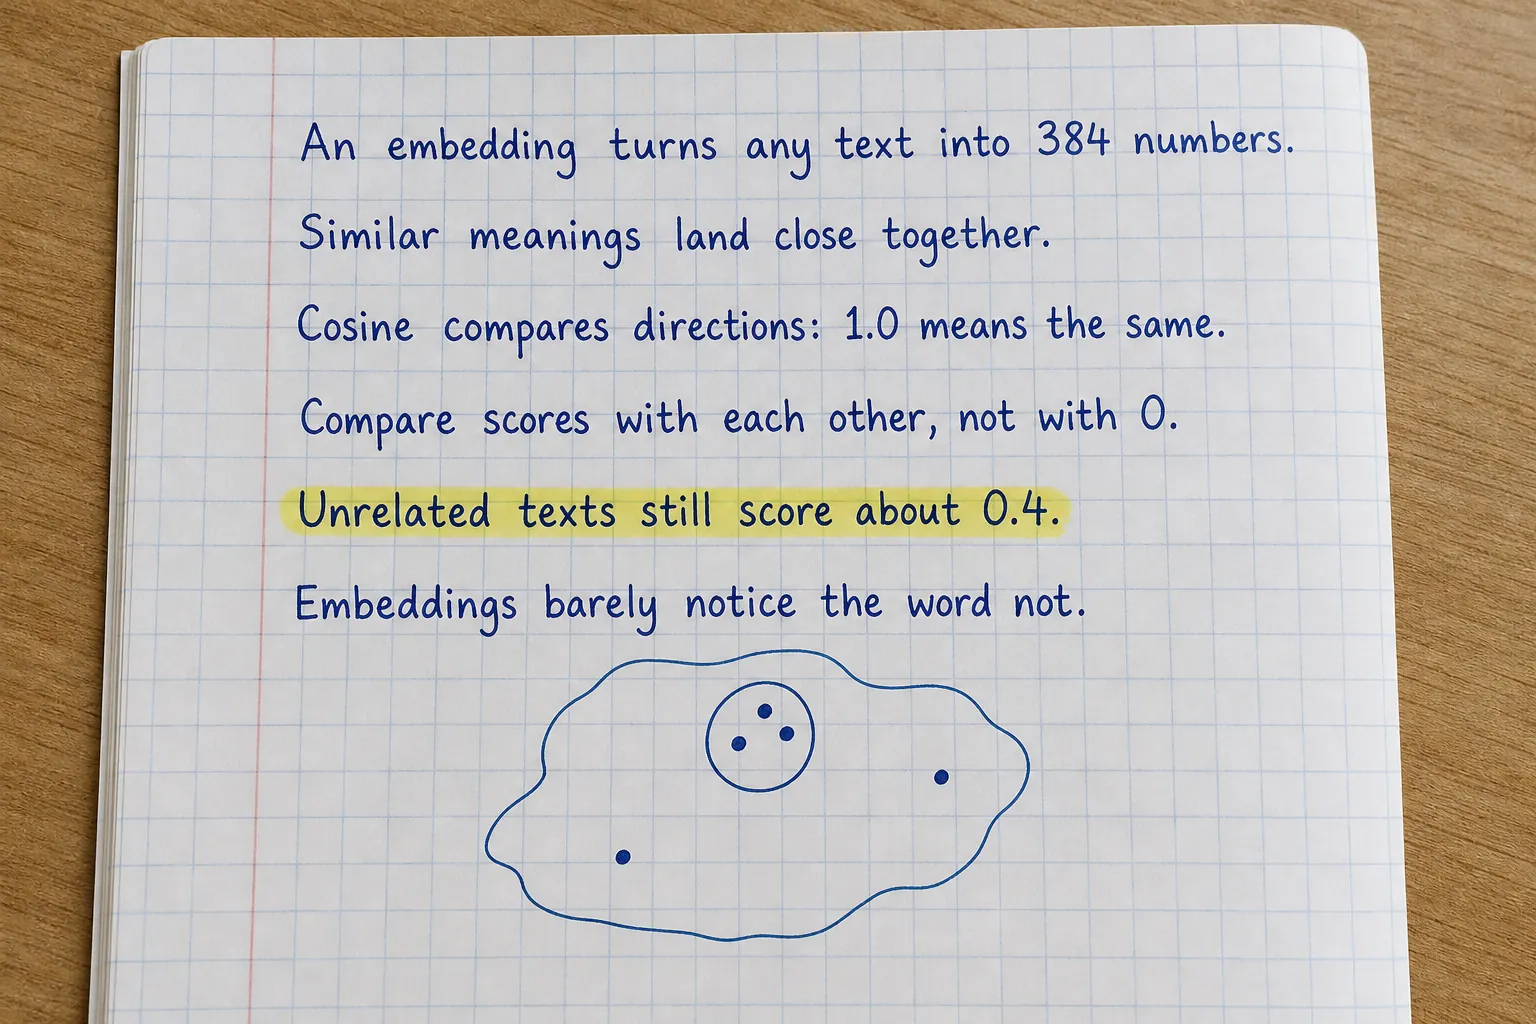
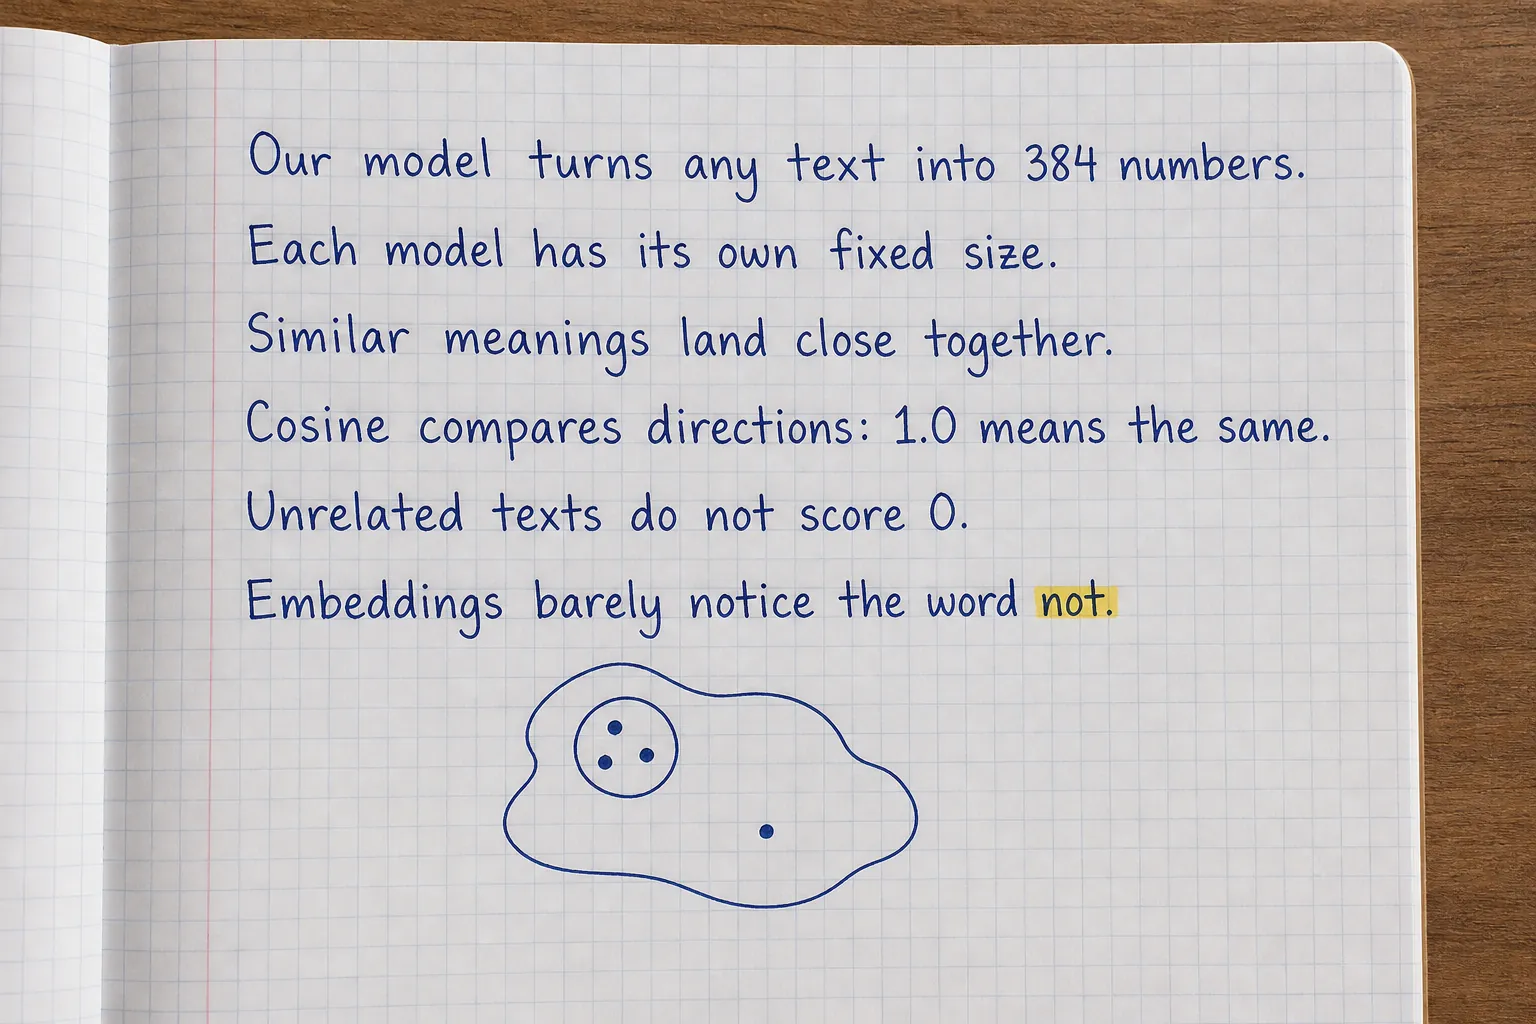
RAG chapter 2: 384 is bge-small's size, not every embedding's; notes page redrawn

diff --git a/labs/rag-vector-databases/chapters/02-embeddings.md b/labs/rag-vector-databases/chapters/02-embeddings.md
@@ -38,7 +38,7 @@ whole paragraph. The picture below shows it with three real sentences from the s
 the model, and a row of 384 numbers comes out (only the first 4 are shown).
 
 :::diagram{name="rag-embed"}
-Text in, 384 numbers out. The numbers are the model's real output, and so are the two scores at the bottom.
+The bge-small model: text in, 384 numbers out. The numbers are its real output, and so are the two scores at the bottom.
 :::
 
 **What are the 384 numbers?** Each one is a measurement the model makes of the text. Together, the 384 measurements
@@ -47,7 +47,8 @@ it was trained, and none of them lines up with a word you could name. There is n
 number; the meaning is spread across all 384 together. So you never read an embedding one number at a time. You only
 **compare** whole embeddings with each other.
 
-**Why exactly 384?** Because the people who built this model chose that size when they designed it. Every text it reads
+**Why exactly 384?** Because the people who built **this** model chose that size when they designed it. 384 belongs to
+bge-small, not to embeddings in general: every embedding model has a fixed size, but each model has its own. Every text it reads
 comes out as exactly 384 numbers, never more and never fewer, and that cannot be changed after the model is trained.
 The number of values in a vector is called its **dimension**, so you will often read that bge-small makes
 "384-dimensional embeddings". Other models chose other sizes:
@@ -79,7 +80,7 @@ meaning, you will:
 2. turn the ranger's question into a vector, the same way;
 3. find the sections whose vectors are closest to the question's vector.
 
-Because a vector is a list of 384 numbers, you can also think of it as a **point**: two numbers mark a point on a sheet of
+Because each of our vectors is a list of 384 numbers, you can also think of it as a **point**: two numbers mark a point on a sheet of
 graph paper, and 384 numbers mark a point in a space with 384 directions. "Closest vectors" and "nearest points" mean
 the same thing, and later chapters use both.
 
@@ -402,7 +403,8 @@ and "The road is not safe after dark." score 0.941.)
 :::step{type=recap}
 You can now:
 
-- explain what an embedding is: a fixed list of 384 numbers for a text, where similar meanings give similar vectors;
+- explain what an embedding is: a fixed-length list of numbers for a text (384 with this course's model; other models
+  use other sizes), where similar meanings give similar vectors;
 - make embeddings on your own processor, as a `float32` matrix with one row of 384 numbers per text;
 - compute cosine similarity by hand and in code, and say why it divides by the lengths;
 - read scores the right way: compare them with each other, because unrelated texts do not score 0;
@@ -410,7 +412,7 @@ You can now:
 
 Next, chapter 3: searching a whole collection of vectors for the ones closest to a question.
 
-:::photo{src="/lesson-images/rag/rag-02-notes.webp" alt="Handwritten notes about embeddings: An embedding turns any text into 384 numbers. Similar meanings land close together. Cosine compares directions: 1.0 means the same. Compare scores with each other, not with 0. Unrelated texts still score about 0.4. Embeddings barely notice the word not." ai="true"}
+:::photo{src="/lesson-images/rag/rag-02-notes.webp" alt="Handwritten notes about embeddings: Our model turns any text into 384 numbers. Each model has its own fixed size. Similar meanings land close together. Cosine compares directions: 1.0 means the same. Unrelated texts do not score 0. Embeddings barely notice the word not." ai="true"}
 One page of notes for this chapter.
 :::
 :::

diff --git a/CHANGELOG.md b/CHANGELOG.md
@@ -1,5 +1,13 @@
 # Changelog
 
+## 25 November: RAG chapter 2, 384 is the model's size, not every embedding's
+
+- Owner: "is 384 model specific or model agnostic?" Model specific, but the recap ("a fixed list of 384 numbers") and the
+  notes page read like a general rule. The lesson now says 384 belongs to bge-small and every model has its own fixed
+  size; the recap says "a fixed-length list of numbers (384 with this course's model)"; the picture's caption names the
+  model; the notes page is redrawn ("Our model turns any text into 384 numbers. Each model has its own fixed size."
+  and "Unrelated texts do not score 0." instead of the model-specific 0.4), checked letter by letter.
+
 ## 25 November: RAG chapter 2 explains 384 where it first appears
 
 - Owner: "have you explained in the lesson with clarity what 384 is?" Not well enough: the explanation came four
